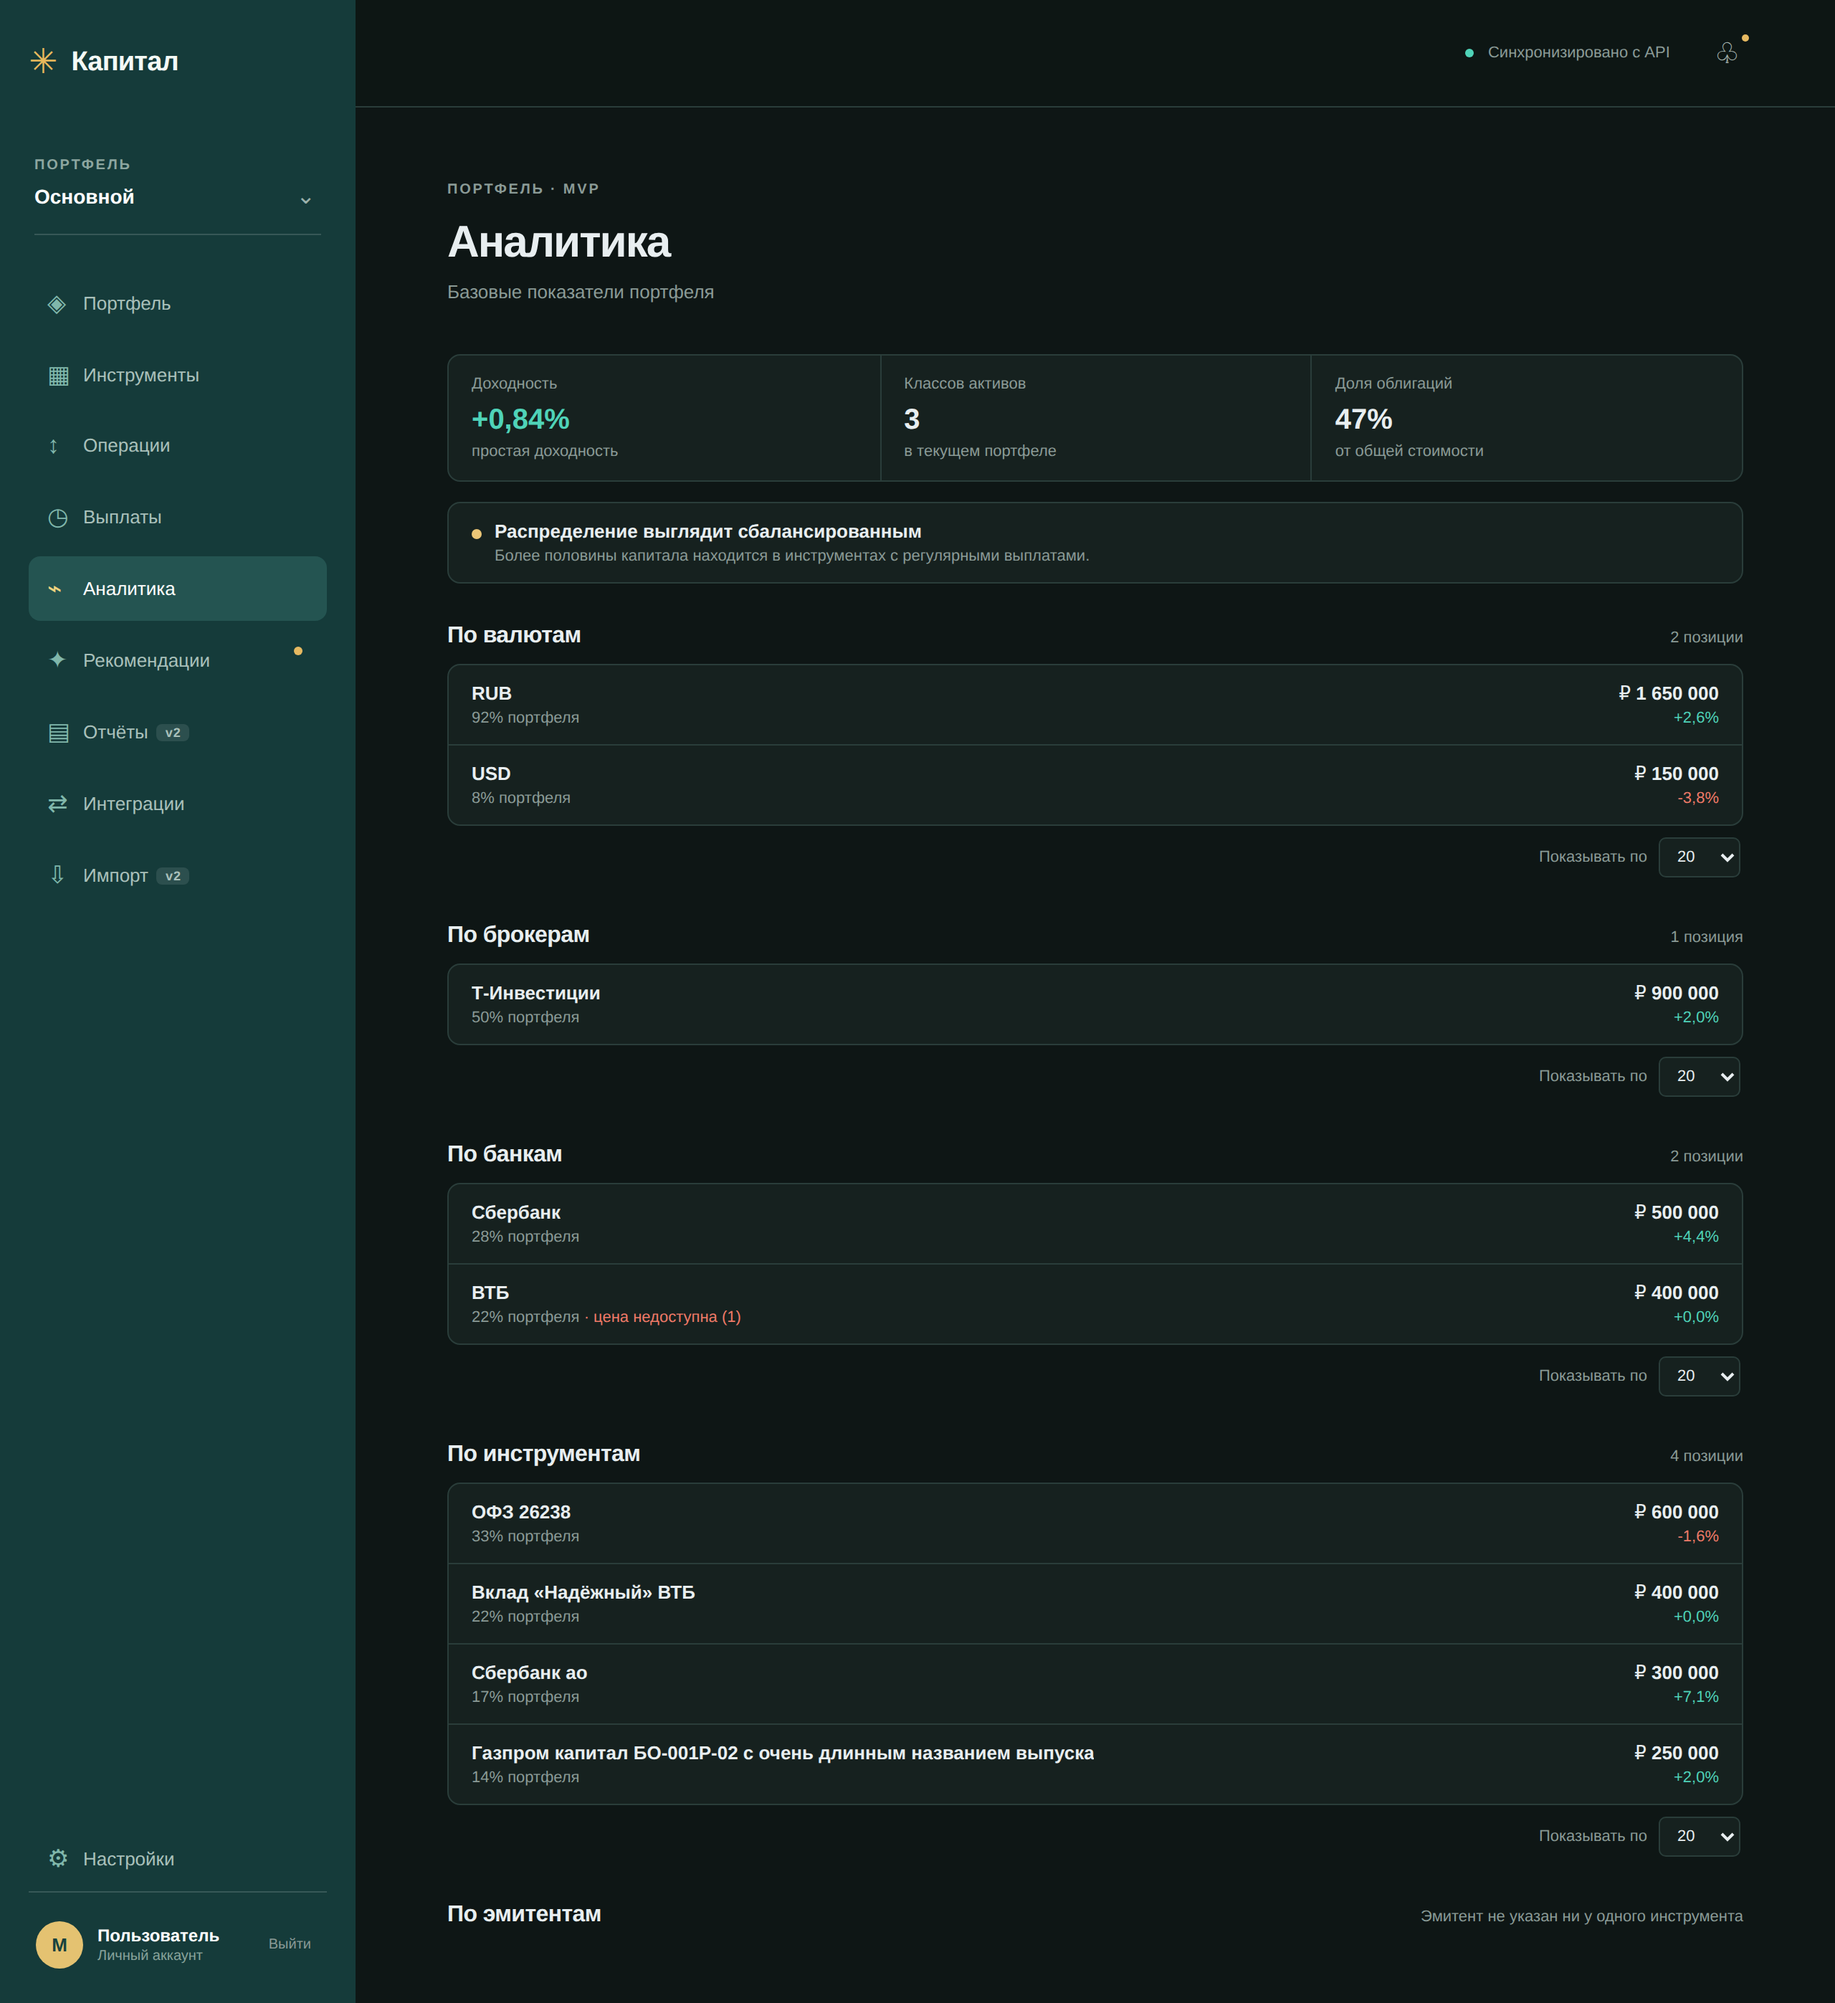
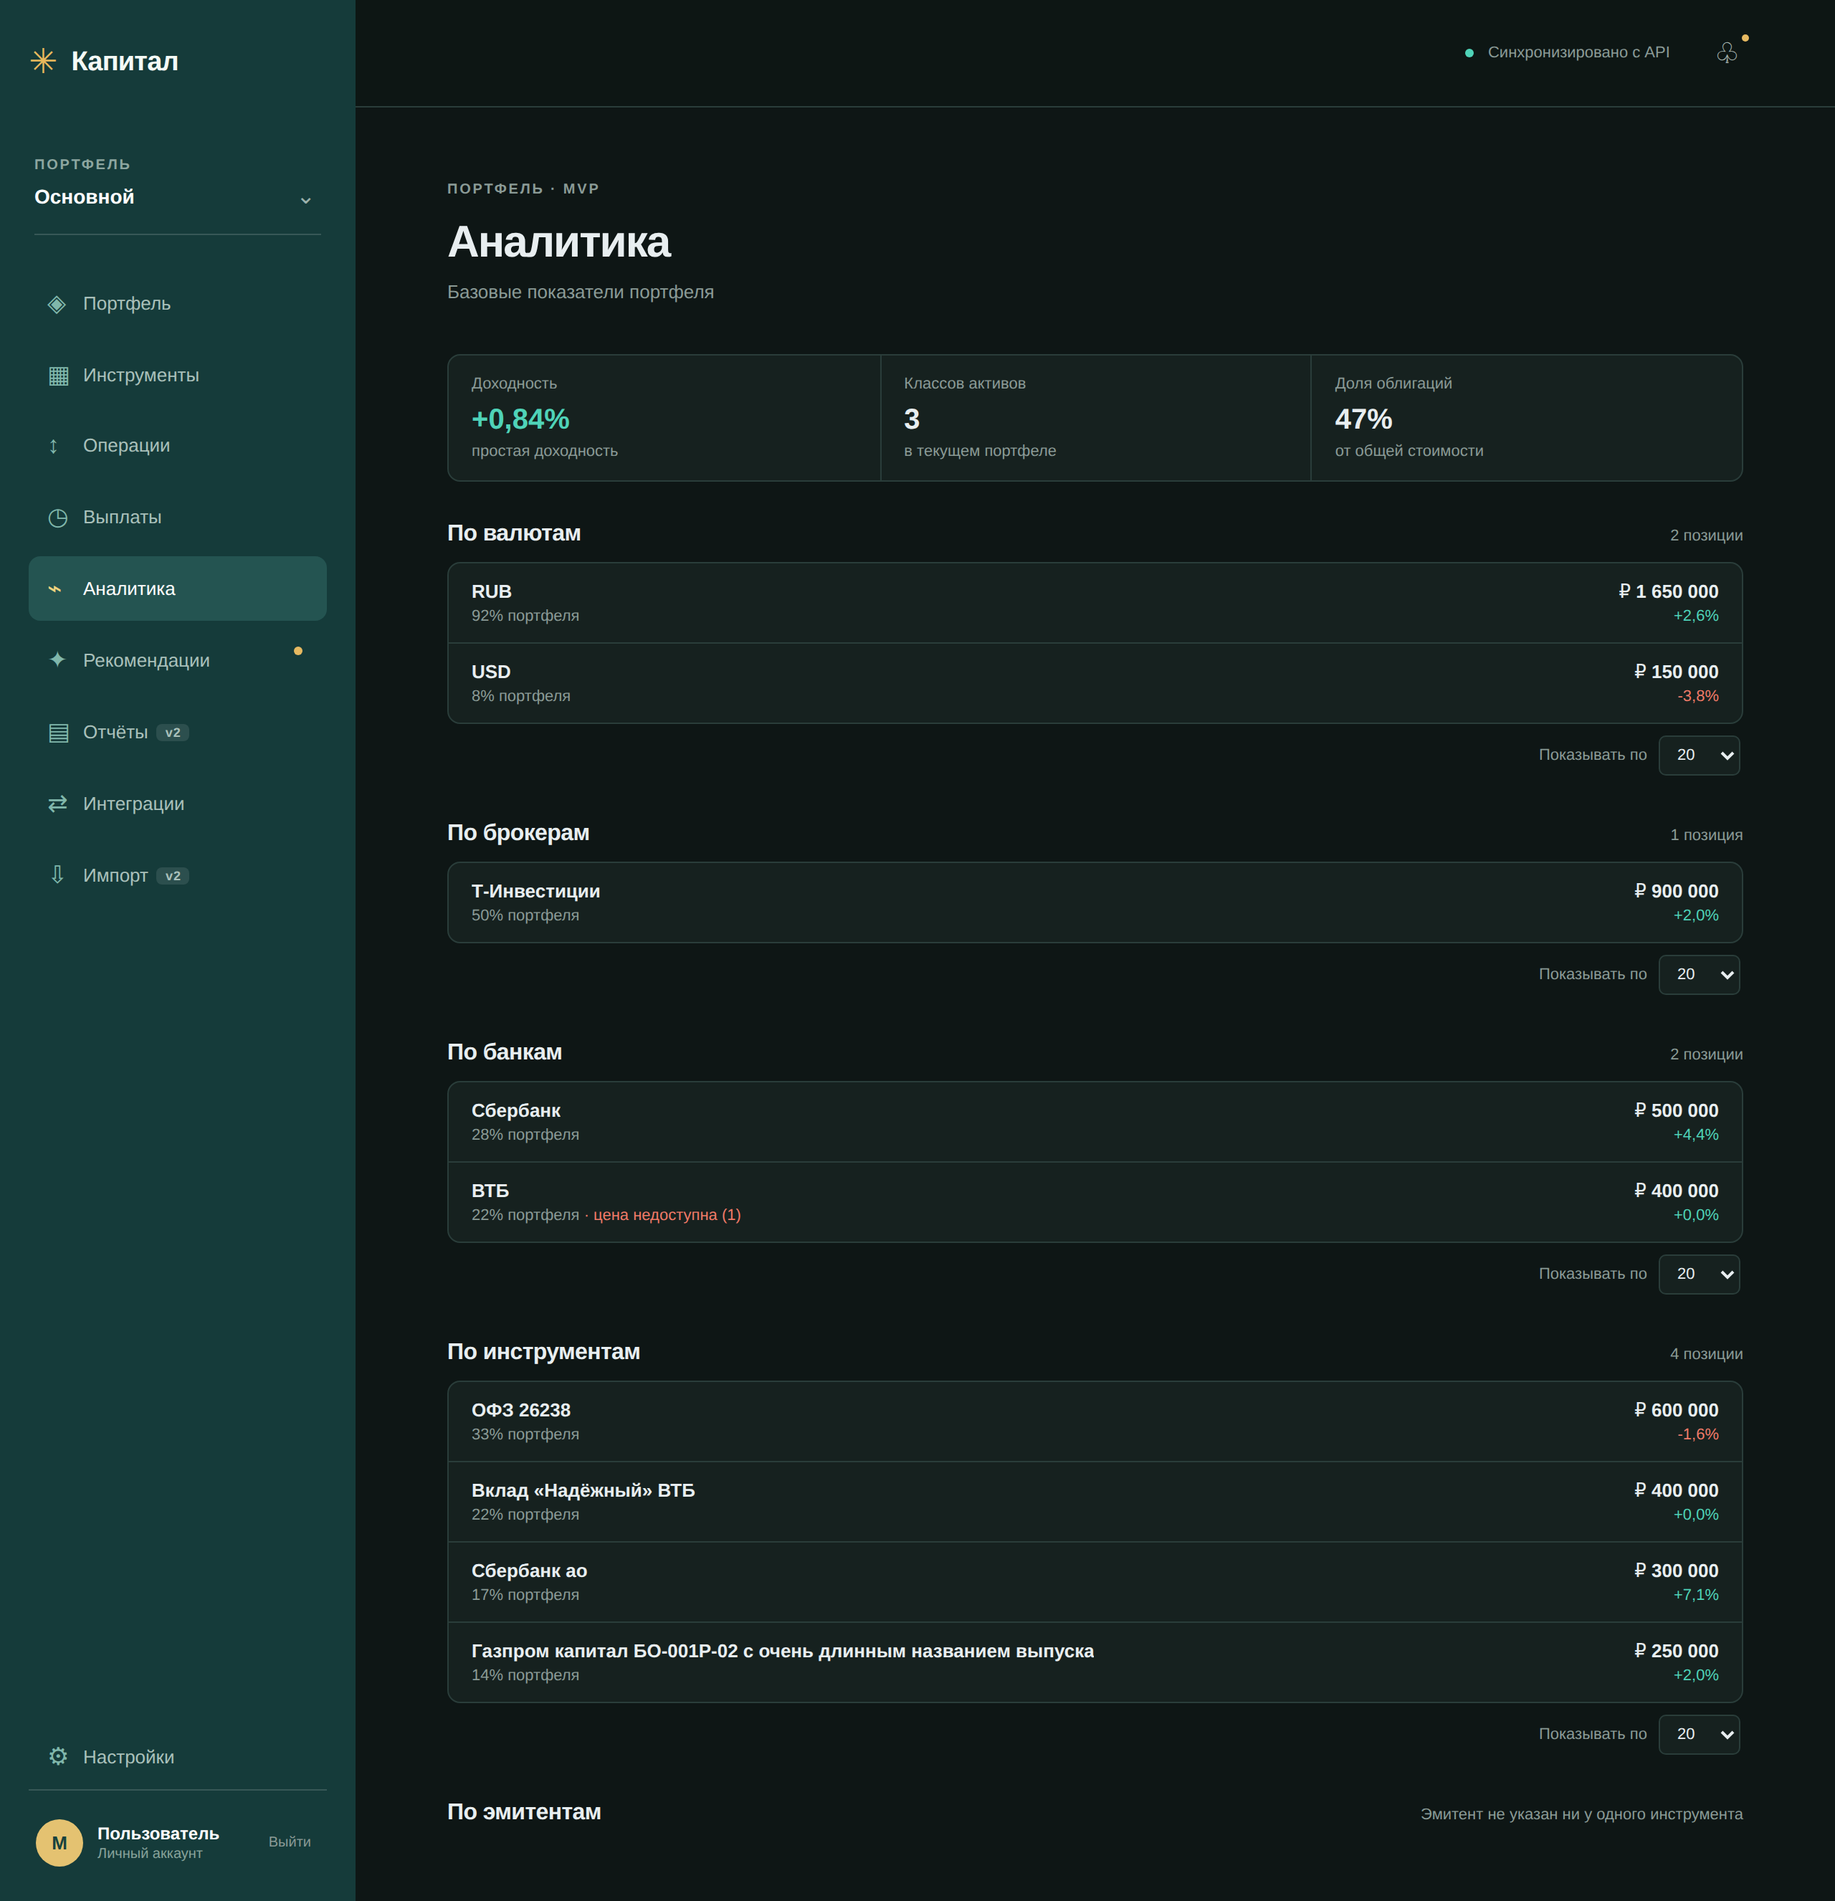
fix: drop hardcoded 'balanced portfolio' insight from analytics
It showed the same verdict for any portfolio, including an empty one.

Claude-Session: https://claude.ai/code/session_016awr9LuBdUD8YmCPFfB1ee

diff --git a/src/App.css b/src/App.css
@@ -53,5 +53,5 @@
 .outline-button .label-full, .outline-button .label-short { margin-left: 0; color: inherit; font-size: inherit; }.product-row-static { cursor: default; }.product-row-static:hover { background: transparent; }.product-row-line2 > span:last-child { flex: 0 0 auto; white-space: nowrap; }.product-row-line2-flush { padding-left: 0; }.product-list .product-row-actions { margin-top: 0; padding: 0 16px 12px; }.payout-detail-name { display: flex; align-items: baseline; gap: 8px; min-width: 0; }.detail-line .payout-detail-name, .detail-line .payout-detail-name > span { color: var(--ink); text-align: left; }.payout-detail-name small { display: block; margin-top: 2px; font-size: 10px; }.payout-detail-name .type-dot { align-self: center; }
 @media (max-width: 680px) { .filters-bar > .inline-select input { width: 100%; min-width: 0; }.view-mode-switch { margin-left: 0; }.view-mode-switch button { flex: 1; padding: 8px 6px; } }
 /* Аналитика и рекомендации в стиле «Инструментов» (REDESIGN_PLAN, волна 3). */
-.stat-strip { display: grid; grid-template-columns: repeat(3, 1fr); border: 1px solid var(--line); border-radius: 9px; background: var(--paper); overflow: hidden; }.stat-strip .stat-card { min-width: 0; padding: 14px 16px; border: 0; border-radius: 0; background: transparent; }.stat-strip .stat-card + .stat-card { border-left: 1px solid var(--line); }.stat-strip .stat-card strong { margin: 8px 0 4px; color: var(--ink); font-size: 20px; }.insight-list { margin-top: 14px; }.recommendation-row { display: flex; align-items: flex-start; gap: 9px; }.recommendation-row > .type-dot { margin-top: 6px; }.recommendation-row strong, .recommendation-row small { display: block; }.recommendation-row strong { color: var(--ink); font-size: 13px; font-weight: 600; }.recommendation-row small { margin-top: 4px; font-size: 11px; }.warning-text { color: #d5a343; }.breakdown-section { margin-top: 28px; }.breakdown-heading { display: flex; align-items: baseline; justify-content: space-between; gap: 12px; margin-bottom: 10px; }.breakdown-heading h2 { margin: 0; color: var(--ink); font: 700 16px 'Manrope', sans-serif; letter-spacing: -.3px; }.breakdown-heading span { font-size: 11px; text-align: right; }
+.stat-strip { display: grid; grid-template-columns: repeat(3, 1fr); border: 1px solid var(--line); border-radius: 9px; background: var(--paper); overflow: hidden; }.stat-strip .stat-card { min-width: 0; padding: 14px 16px; border: 0; border-radius: 0; background: transparent; }.stat-strip .stat-card + .stat-card { border-left: 1px solid var(--line); }.stat-strip .stat-card strong { margin: 8px 0 4px; color: var(--ink); font-size: 20px; }.recommendation-row { display: flex; align-items: flex-start; gap: 9px; }.recommendation-row > .type-dot { margin-top: 6px; }.recommendation-row strong, .recommendation-row small { display: block; }.recommendation-row strong { color: var(--ink); font-size: 13px; font-weight: 600; }.recommendation-row small { margin-top: 4px; font-size: 11px; }.warning-text { color: #d5a343; }.breakdown-section { margin-top: 28px; }.breakdown-heading { display: flex; align-items: baseline; justify-content: space-between; gap: 12px; margin-bottom: 10px; }.breakdown-heading h2 { margin: 0; color: var(--ink); font: 700 16px 'Manrope', sans-serif; letter-spacing: -.3px; }.breakdown-heading span { font-size: 11px; text-align: right; }
 @media (max-width: 680px) { .stat-strip .stat-card { padding: 12px 10px; }.stat-strip .stat-card strong { font-size: 17px; }.stat-strip .stat-card span, .stat-strip .stat-card small { font-size: 10px; } }

diff --git a/src/AppMvp.tsx b/src/AppMvp.tsx
@@ -3207,20 +3207,6 @@ function AnalyticsPage({
           <small>от общей стоимости</small>
         </article>
       </div>
-      <div className="product-list insight-list">
-        <div className="list-row">
-          <div className="product-row-summary product-row-static recommendation-row">
-            <i className="legend type-dot amber" />
-            <span>
-              <strong>Распределение выглядит сбалансированным</strong>
-              <small className="muted">
-                Более половины капитала находится в инструментах с регулярными
-                выплатами.
-              </small>
-            </span>
-          </div>
-        </div>
-      </div>
       {structureError && <p className="form-error">{structureError}</p>}
       {structure && (
         <>

diff --git a/docs/REDESIGN_PLAN.md b/docs/REDESIGN_PLAN.md
@@ -99,10 +99,9 @@
   дописывай одной строкой, что сделано и какой коммит. Файл сам — твой журнал.
 
 ## Открытые вопросы (заполнять по мере появления)
-- «Аналитика»: карточка «Распределение выглядит сбалансированным» — захардкоженный текст,
-  показывается при любом портфеле (в том числе пустом или целиком в одной акции). Это
-  не вёрстка, а логика, поэтому в волне 3 не трогалась: либо убрать, либо считать на
-  бэкенде (например, из тех же правил, что и рекомендации).
+- ✅ Решено 29.09.2026: карточка «Распределение выглядит сбалансированным» на «Аналитике»
+  была захардкоженным текстом и показывалась при любом портфеле — по решению владельца
+  убрана.
 
 ## Исходные ориентиры в коде
 - `navItems` (~строка 512) — список вкладок и путей.
